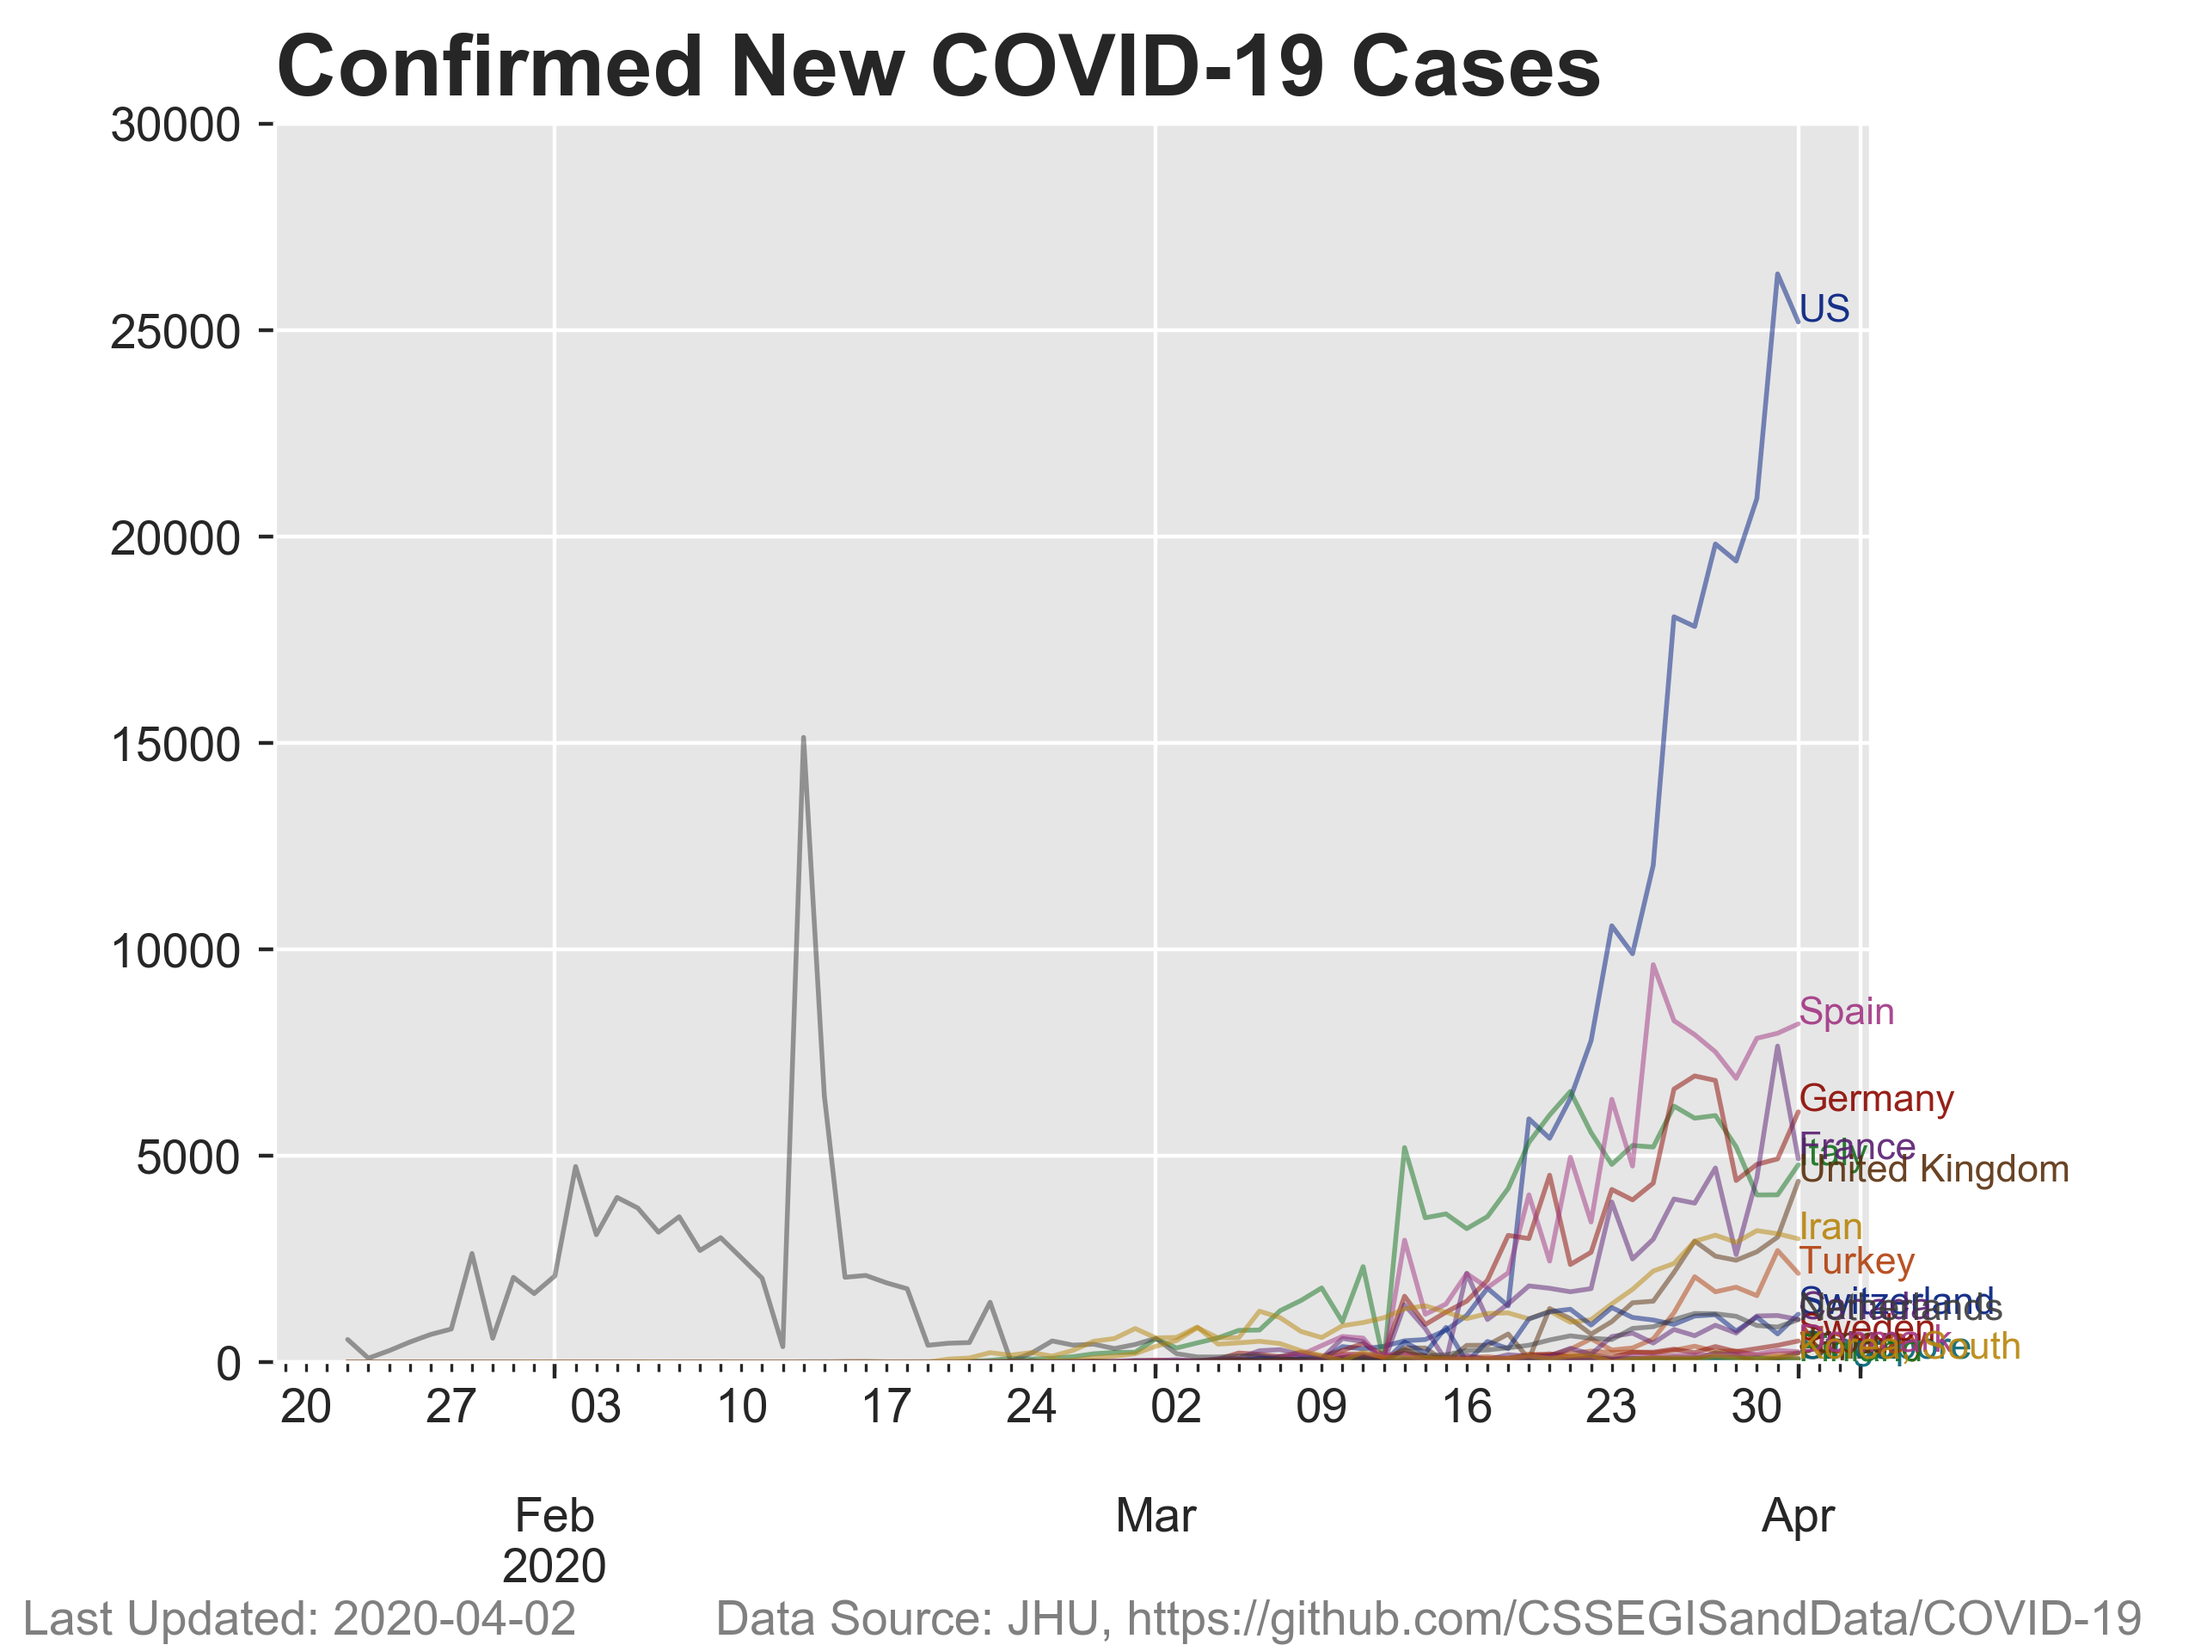
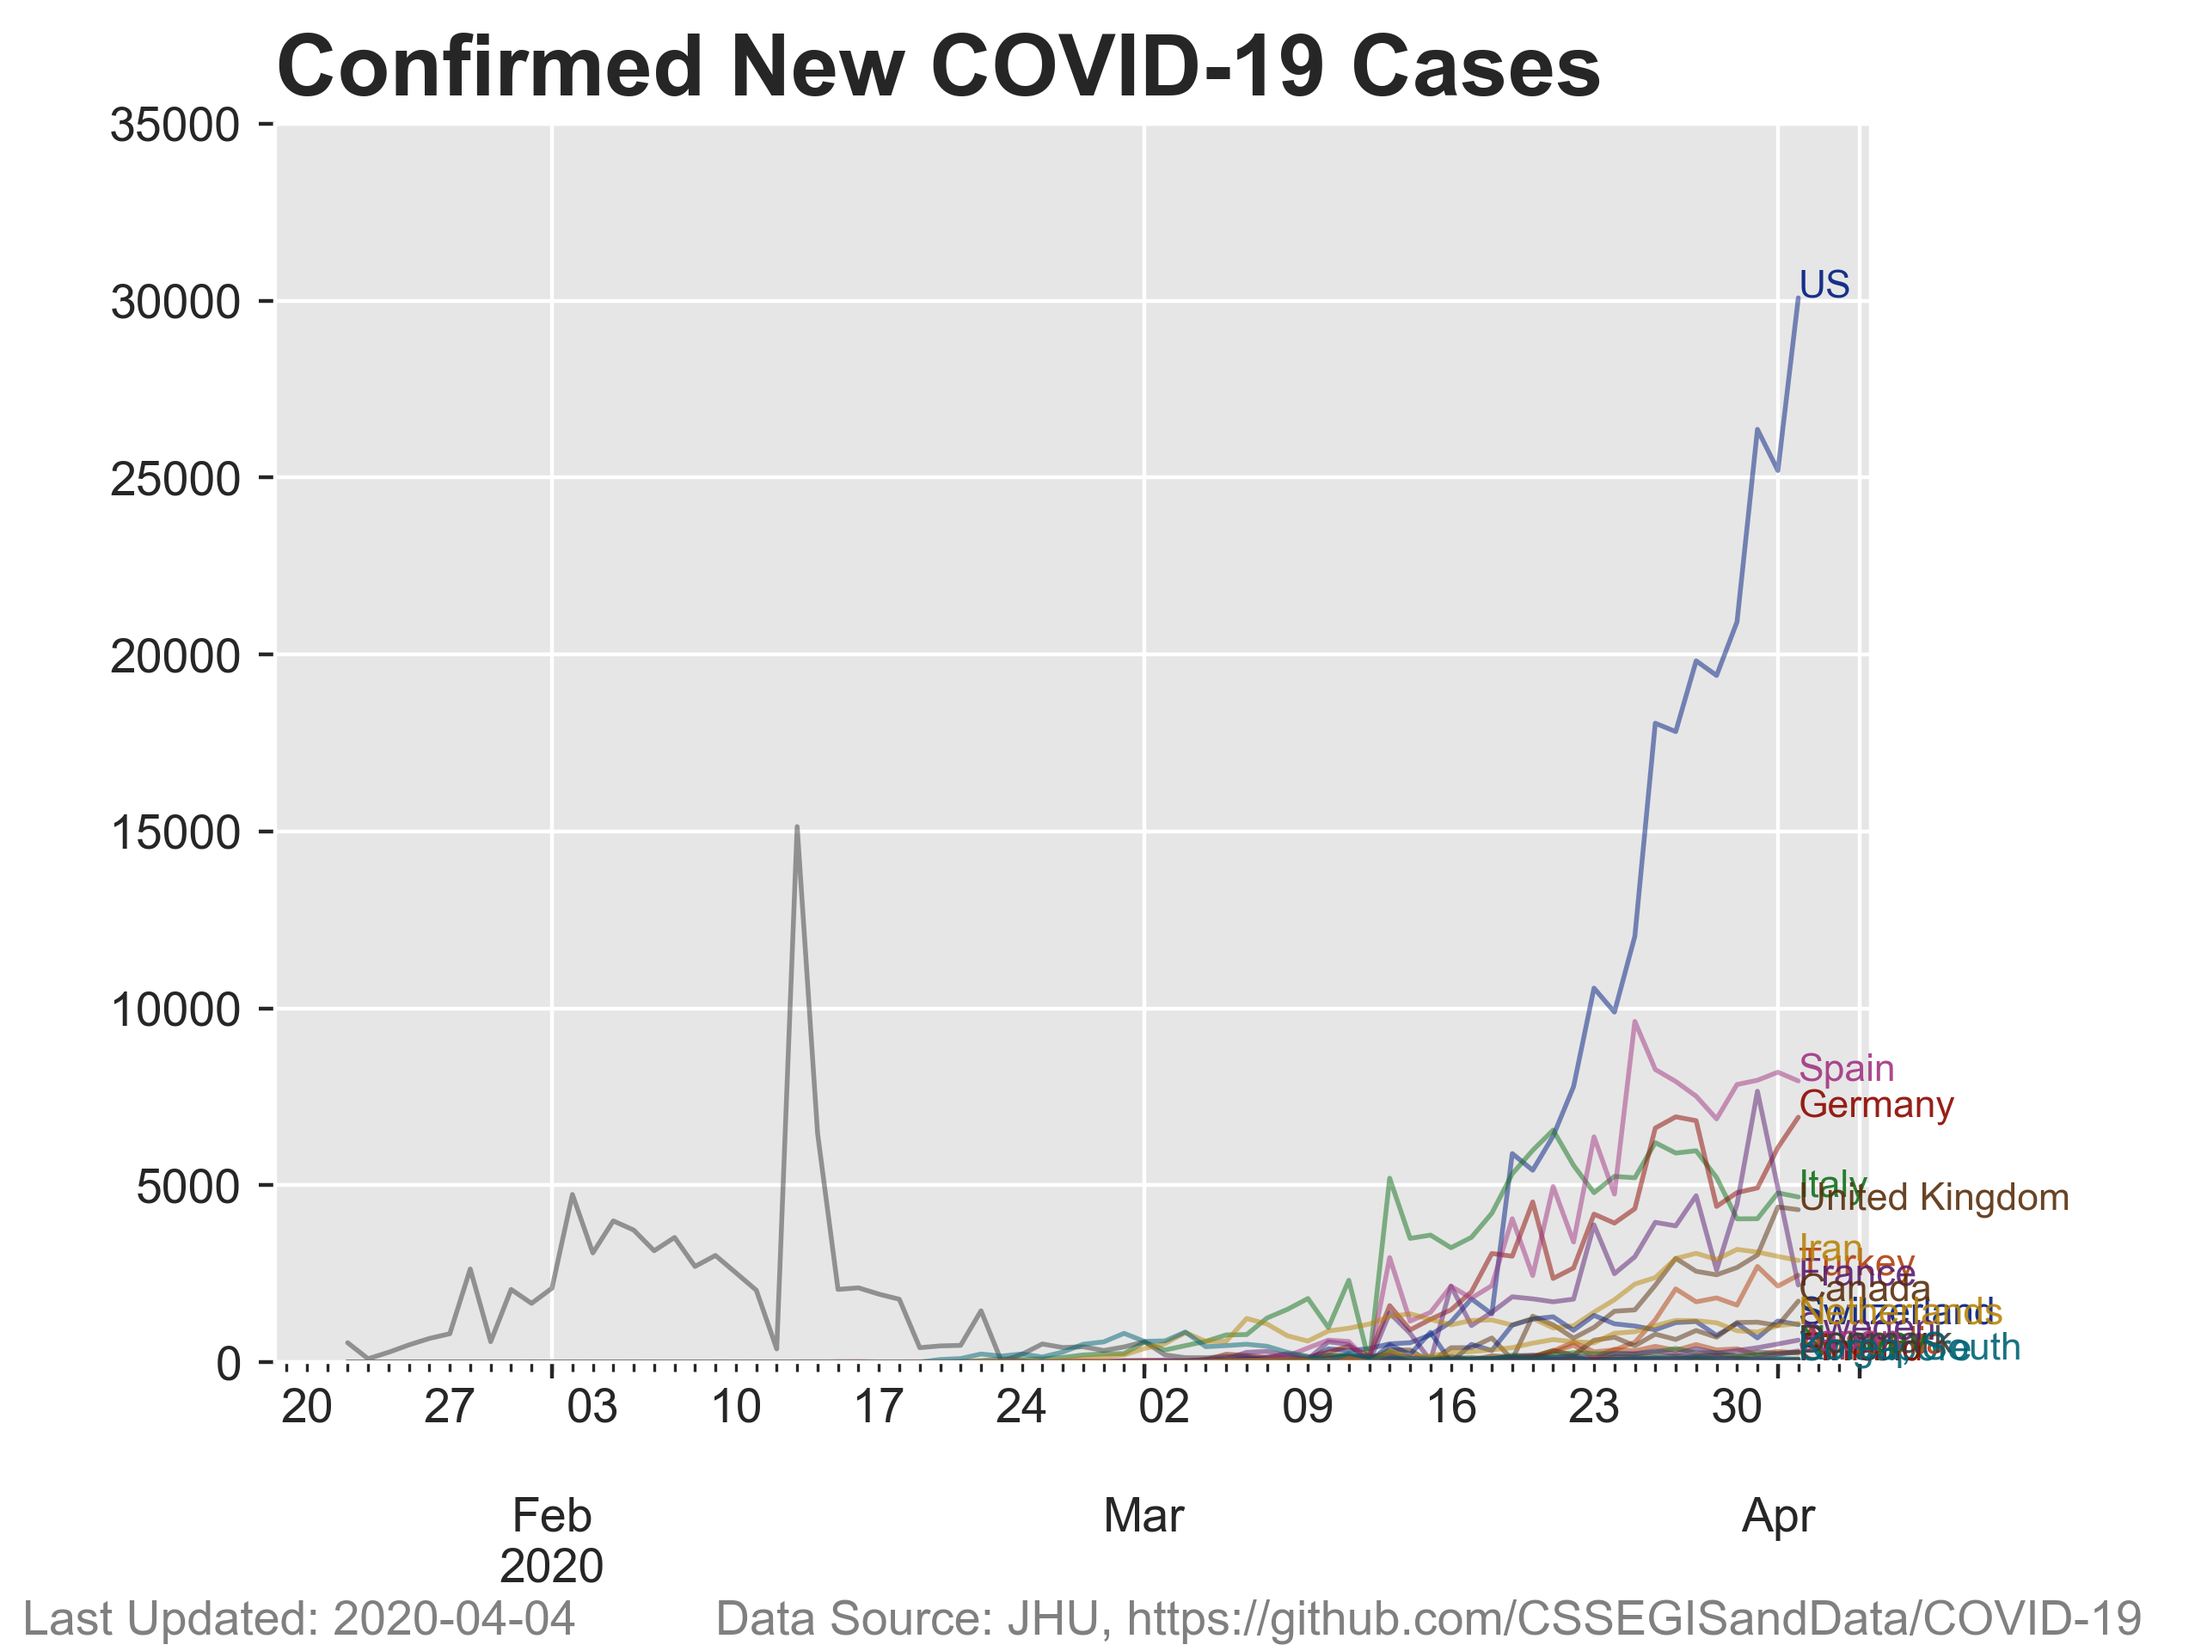
updated data and plots

diff --git a/plotter_covid.py b/plotter_covid.py
@@ -22,7 +22,7 @@ countries = [
 				'Iran',
 				'Singapore',
 				'Switzerland',
-				# 'Australia',
+				'Australia',
 				'Norway',
 				'Finland',
 				'Sweden',
@@ -115,7 +115,7 @@ def animate(i):
 	return None
 
 anim = animation.FuncAnimation(fig, animate, frames=len(confirmed_df.keys()), interval=1200)
-anim.save('confirmed.gif', writer='imagemagick')
+anim.save('confirmed.gif', writer='imagemagick', dpi=400)
 
 # confirmed cases plot
 fig = plt.figure(); ax = plt.gca()
@@ -137,7 +137,7 @@ plt.close(fig)
 fig = plt.figure(); ax = plt.gca()
 confirmed_new_df.plot(
 	# logy=True,
-	ax=ax,alpha=0.5,ylim=[1,30000],color=color,legend=False,linewidth=1)
+	ax=ax,alpha=0.5,ylim=[1,35000],color=color,legend=False,linewidth=1)
 plt.title('Confirmed New COVID-19 Cases', loc='left', fontweight='bold',fontsize=18)
 ax.get_xaxis().tick_bottom()
 ax.get_yaxis().tick_left()
@@ -169,7 +169,7 @@ plt.close(fig)
 fig = plt.figure(); ax = plt.gca()
 death_new_df.plot(
 	# logy=True,
-	ax=ax,alpha=0.5,ylim=[1,1000],color=color,legend=False,linewidth=1)
+	ax=ax,alpha=0.5,ylim=[1,1500],color=color,legend=False,linewidth=1)
 plt.title('New COVID-19 Fatalities', loc='left', fontweight='bold',fontsize=18)
 ax.get_xaxis().tick_bottom()
 ax.get_yaxis().tick_left()
@@ -204,14 +204,14 @@ barPos_p = np.arange(sorted_idx_p.shape[0])
 sc = np.array(countries)
 
 fig = plt.figure(); ax = plt.gca()
-plt.barh(barPos_p, data[sorted_idx_p],alpha=0.9)
+plt.barh(barPos_p, data[sorted_idx_p],alpha=0.8)
 plt.yticks(barPos_p, sc[sorted_idx_p],fontsize='9')
 plt.title('COVID-19 Mortality Rate (%)', loc='left', fontweight='bold',fontsize=18)
 ax.get_xaxis().tick_bottom()
 ax.get_yaxis().tick_left()
 plt.gcf().text(0.01, 0.01, 'Last Updated: '+str(datetime.date.today()),fontsize=10,color='grey')
 plt.gcf().text(0.325, 0.01, 'Data Source: JHU, '+source,fontsize=10,color='grey')
-plt.xlim([0,12])
+plt.xlim([0,14])
 plt.xlabel('(# of Deaths / Confirmed Cases) * 100')
 plt.subplots_adjust(left=0.175, bottom=0.15, right=0.925, top=0.925)
 plt.savefig('death_rate.png',transparent=False,dpi=400)
